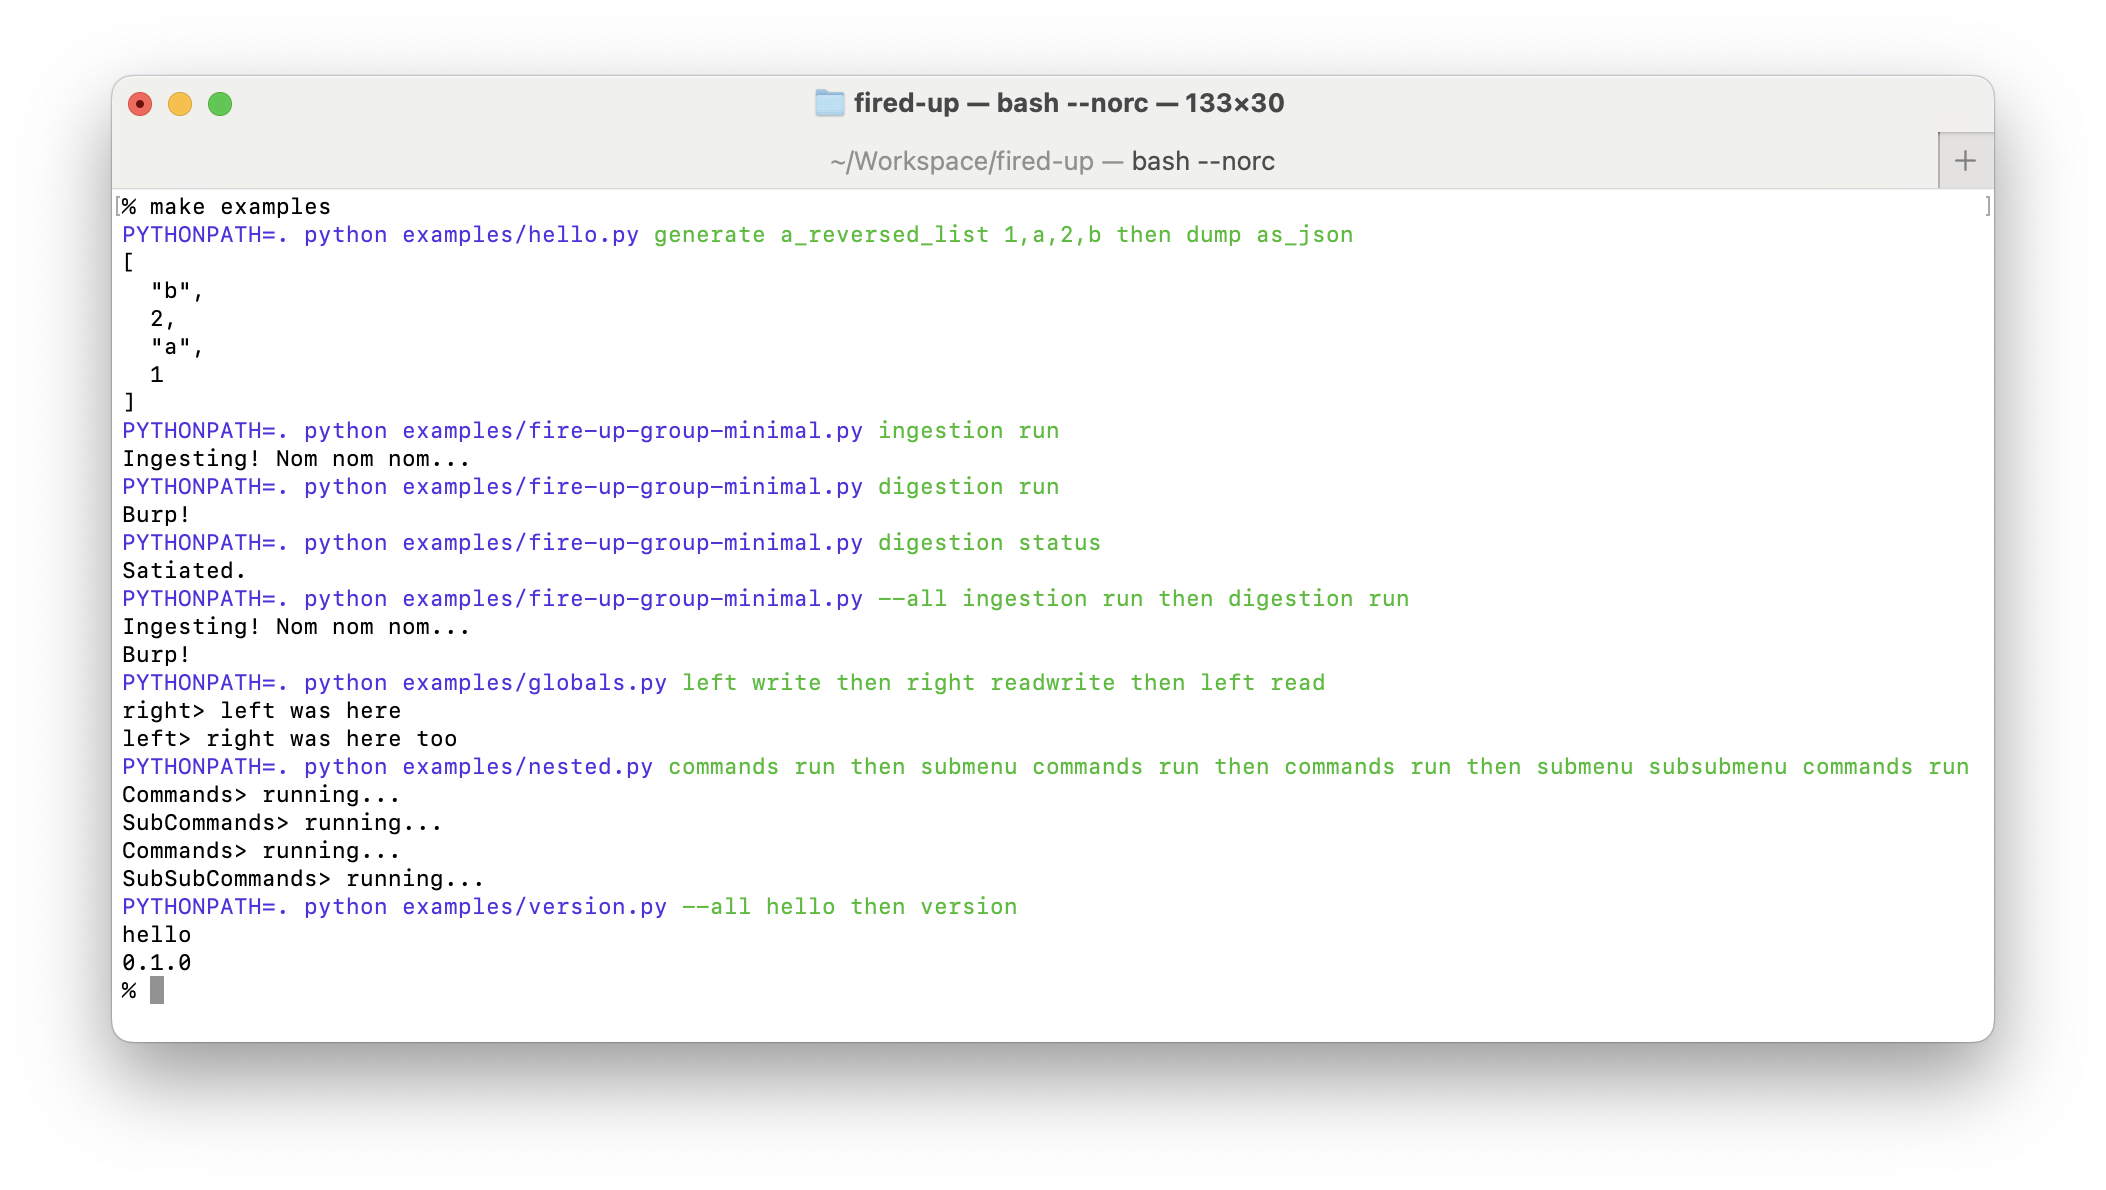
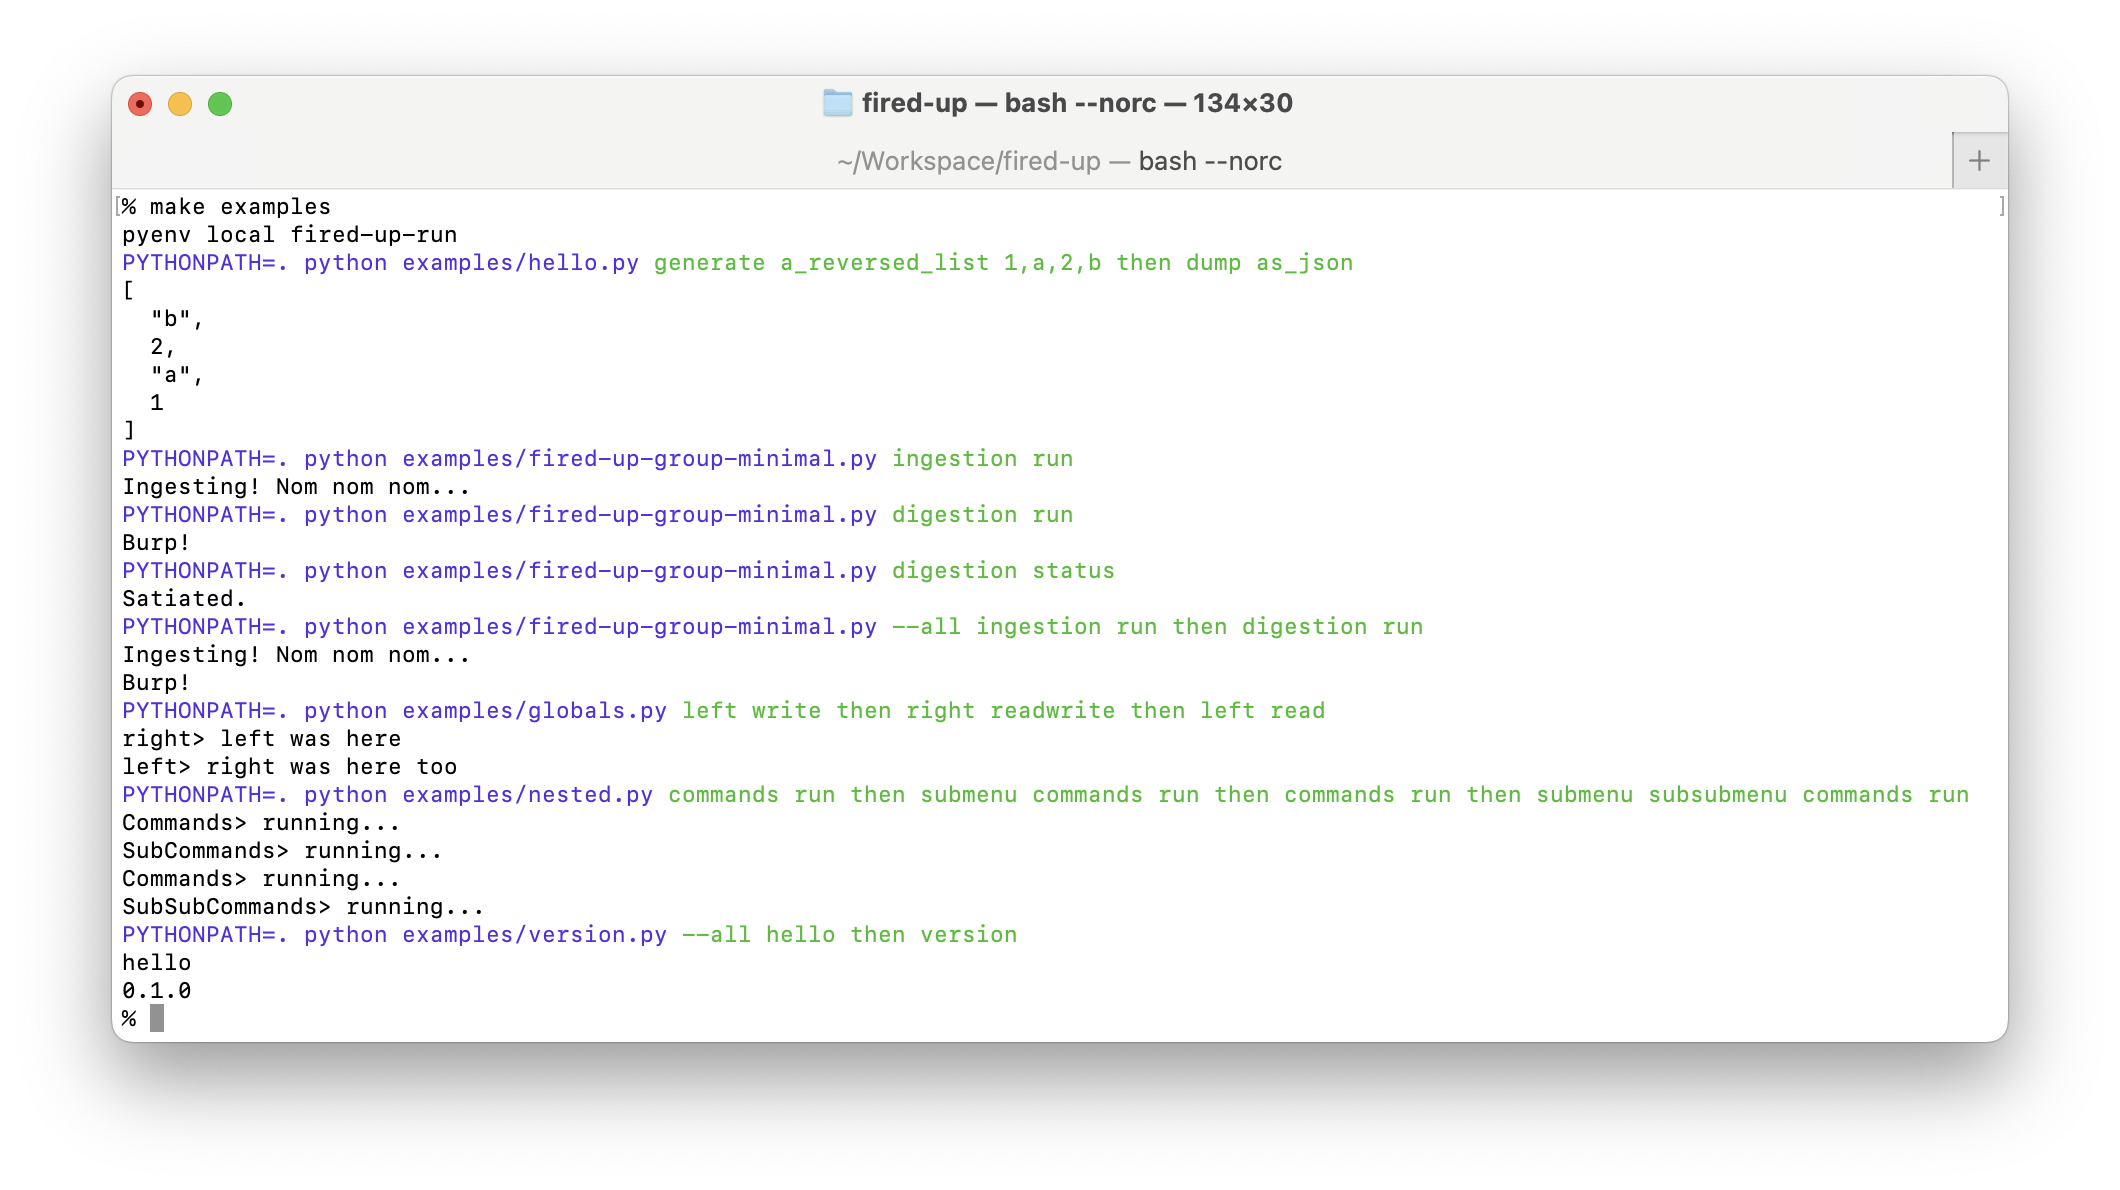
fixed filenames 😇

diff --git a/docs/whats-in-the-box.md b/docs/whats-in-the-box.md
@@ -81,13 +81,13 @@ if __name__ == "__main__":
 This runs with exactly the same results:
 
 ```console
-% PYTHONPATH=. python examples/fire-up-group.py ingestion run
+% PYTHONPATH=. python examples/fired-up-group.py ingestion run
 Ingesting! Nom nom nom...
-% PYTHONPATH=. python examples/fire-up-group.py digestion run
+% PYTHONPATH=. python examples/fired-up-group.py digestion run
 Burp!
-% PYTHONPATH=. python examples/fire-up-group.py digestion status
+% PYTHONPATH=. python examples/fired-up-group.py digestion status
 Satiated.
-% PYTHONPATH=. python examples/fire-up-group.py run             
+% PYTHONPATH=. python examples/fired-up-group.py run             
 Ingesting! Nom nom nom...
 Burp!
 ```
@@ -115,13 +115,13 @@ if __name__ == "__main__":
 This runs exactly the same, except for the `Pipeline.run` command, which is now replaced with the sequencer `then` on the command line itself:
 
 ```console
-% PYTHONPATH=. python examples/fire-up-group-minimal.py ingestion run
+% PYTHONPATH=. python examples/fired-up-group-minimal.py ingestion run
 Ingesting! Nom nom nom...
-% PYTHONPATH=. python examples/fire-up-group-minimal.py digestion run
+% PYTHONPATH=. python examples/fired-up-group-minimal.py digestion run
 Burp!
-% PYTHONPATH=. python examples/fire-up-group-minimal.py digestion status
+% PYTHONPATH=. python examples/fired-up-group-minimal.py digestion status
 Satiated.
-% PYTHONPATH=. python examples/fire-up-group-minimal.py --all ingestion run then digestion run
+% PYTHONPATH=. python examples/fired-up-group-minimal.py --all ingestion run then digestion run
 Ingesting! Nom nom nom...
 Burp!
 ```
